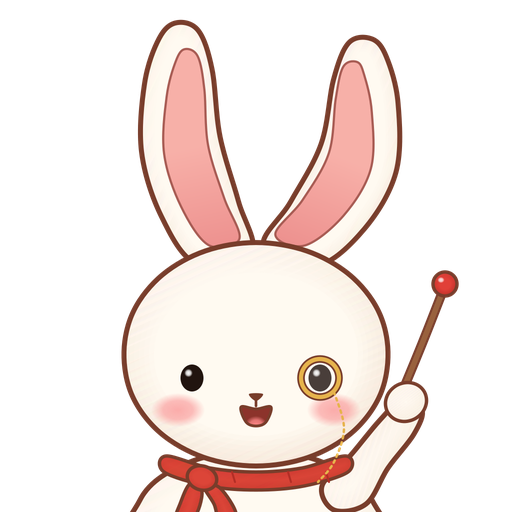
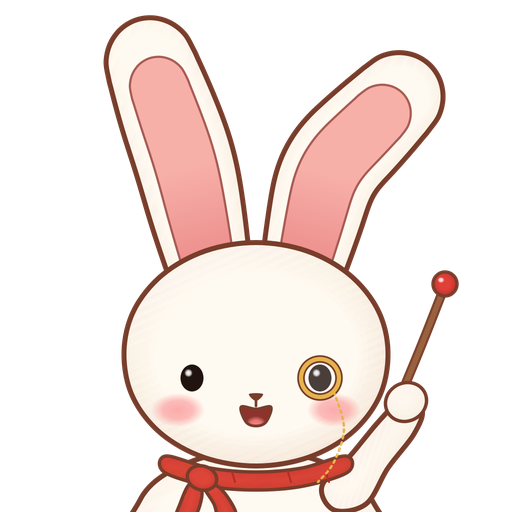
fix: 2D 초상화 귀를 원본처럼 넓고 붙게, 오른쪽 귀는 바깥으로 접히게
귀를 등뼈 곡선을 따라 폭을 주는 방식으로 다시 그림. 뿌리가 넓고 정수리에 가깝게
붙고, 오른쪽 귀는 윗부분이 바깥으로 꺾인다. 안쪽 분홍도 같은 곡선을 따른다.

Changed region(s): [[0.1875, 0.0312, 0.875, 0.5312]]

diff --git a/apps/lab3d/art_src/characters/dugi_portrait_2d.py b/apps/lab3d/art_src/characters/dugi_portrait_2d.py
@@ -136,18 +136,40 @@ def rot(pts, ang, ox, oy):
     return [(ox + (x - ox) * c - (y - oy) * s, oy + (x - ox) * s + (y - oy) * c) for x, y in pts]
 
 
-def ear_pts(root, length, half_w, tilt, bend):
-    """A long, flat, round-tipped ear from `root` (bottom centre), turned by `tilt` (rad, + = to the
-    viewer's right) and bowing sideways by `bend` (px, at the middle)."""
-    x0, y0 = root
-    prof = [(-0.70, 0.00), (-0.98, -0.22), (-1.00, -0.50), (-0.86, -0.78), (-0.50, -0.95), (0.00, -1.00),
-            (0.50, -0.95), (0.86, -0.78), (1.00, -0.50), (0.98, -0.22), (0.70, 0.00)]
-    pts = []
-    for u, v in prof:
-        t = -v                                   # 0 at the root, 1 at the tip
-        bow = bend * math.sin(math.pi * min(1.0, t * 1.1))
-        pts.append((x0 + u * half_w + bow, y0 + v * length))
-    return rot(pts, tilt, x0, y0)
+def ear_pts(root, length, half_w, tilt, flop, tip_cut=0.0, scale=1.0):
+    """A broad, round-tipped ear grown along a spine from `root` (bottom centre). The spine leaves at
+    `tilt` (rad, + = to the viewer's right) and turns a further `flop` rad over its upper half, so a
+    floppy ear folds outward like the reference. `tip_cut`/`scale` give the inner ear on the same spine
+    (it starts at the root, hidden by the head, and stops short of the tip)."""
+    n = 28
+    spine, ang = [], []
+    x, y = root
+    step = length / n
+    for i in range(n + 1):
+        t = i / n
+        k = min(1.0, max(0.0, (t - 0.35) / 0.35))
+        a = tilt + flop * k * k * (3 - 2 * k)
+        spine.append((x, y))
+        ang.append(a)
+        x += math.sin(a) * step
+        y -= math.cos(a) * step
+    lo, hi = 0, int(round(n * (1.0 - tip_cut)))
+    left, right = [], []
+    for i in range(lo, hi + 1):
+        t = i / n
+        w = half_w * scale * (0.80 + 0.20 * math.sin(math.pi * min(1.0, t / 1.2)))
+        (sx, sy), a = spine[i], ang[i]
+        nx, ny = math.cos(a), math.sin(a)       # normal to the spine (viewer's right side)
+        left.append((sx - nx * w, sy - ny * w))
+        right.append((sx + nx * w, sy + ny * w))
+    (tx, ty), a = spine[hi], ang[hi]
+    w = half_w * scale * (0.80 + 0.20 * math.sin(math.pi * min(1.0, hi / n / 1.2)))
+    cap = []
+    for j in range(1, 8):                       # round tip
+        ph = math.pi * j / 8
+        cap.append((tx - math.cos(a) * w * math.cos(ph) + math.sin(a) * w * math.sin(ph) * 1.05,
+                    ty - math.sin(a) * w * math.cos(ph) - math.cos(a) * w * math.sin(ph) * 1.05))
+    return left + cap + right[::-1]
 
 
 def draw(expr, size):
@@ -185,14 +207,16 @@ def draw(expr, size):
         shape(ctx, tail, SCARF, INNER_W, edge=SCARF_EDGE, edge_w=8, edge_a=0.5)
     shape(ctx, ellipse_pts(202, 478, 15, 12, rot=0.3), SCARF, INNER_W, edge=SCARF_EDGE, edge_w=6, edge_a=0.6)
 
-    # Ears: long and splayed, the viewer's left one nearly upright, the right one leaning and bowing out.
-    splay = 1.25 if expr == "smile" else 1.0
-    for root, length, half_w, tilt, bend in (((224, 258), 240, 40, -0.20 * splay, -20), ((290, 256), 232, 40, 0.36 * splay, 30)):
-        outer = ear_pts(root, length, half_w, tilt, bend)
-        inner = ear_pts((root[0], root[1] - 16), length * 0.82, half_w * 0.56, tilt, bend * 0.95)
+    # Ears: broad and close together on the crown; the viewer's left one leans out a little, the right
+    # one leans more and folds outward over its upper half, as in the reference.
+    splay = 1.2 if expr == "smile" else 1.0
+    for root, length, half_w, tilt, flop in (((212, 280), 224, 50, -0.22 * splay, -0.12),
+                                             ((300, 280), 212, 50, 0.24 * splay, 0.55)):
+        outer = ear_pts(root, length, half_w, tilt, flop)
+        inner = ear_pts(root, length, half_w, tilt, flop, tip_cut=0.12, scale=0.62)
         shape(ctx, outer, FUR, OUTER_W, light=(-0.8, -0.4), edge_w=14)
         smooth(ctx, inner)
-        g = cairo.LinearGradient(root[0], root[1] - 12, root[0] + math.sin(tilt) * length, root[1] - math.cos(tilt) * length)
+        g = cairo.LinearGradient(root[0], root[1] - 30, root[0] + math.sin(tilt) * length, root[1] - math.cos(tilt) * length)
         g.add_color_stop_rgb(0.0, *EAR_IN_DEEP)
         g.add_color_stop_rgb(0.45, *EAR_IN)
         g.add_color_stop_rgb(1.0, *EAR_IN)
